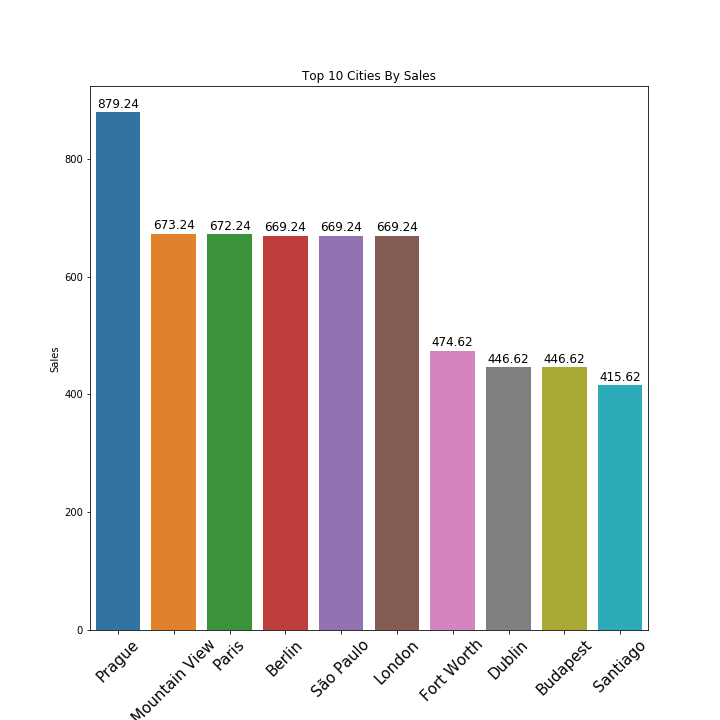
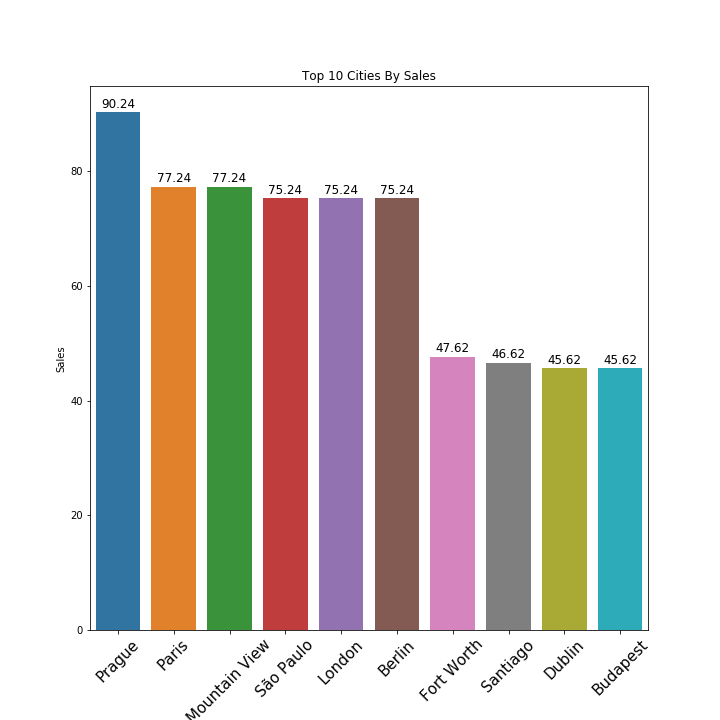
Sales by city Update

diff --git a/chinook.py b/chinook.py
@@ -463,7 +463,7 @@ plt.show()
 sales_vs_city='''
 SELECT 
     i.BillingCity AS City, 
-    Sum(i.Total) AS sales 
+    Sum(it.UnitPrice) AS sales 
 FROM invoices i
 INNER JOIN invoice_items it ON i.InvoiceId=it.InvoiceId 
 GROUP BY City 
